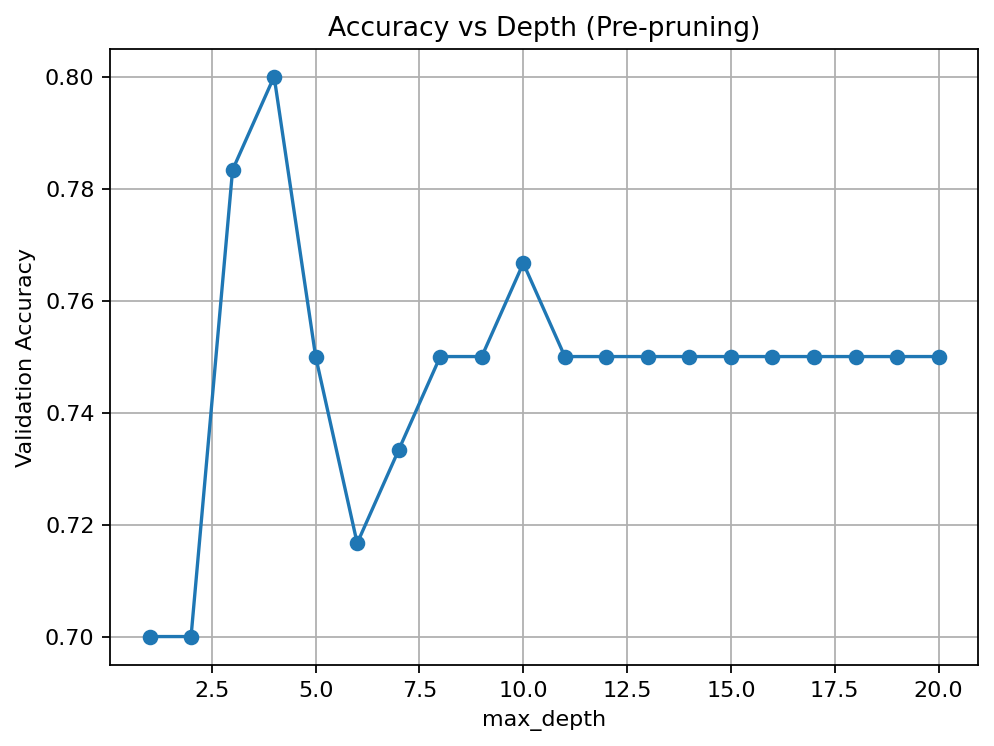
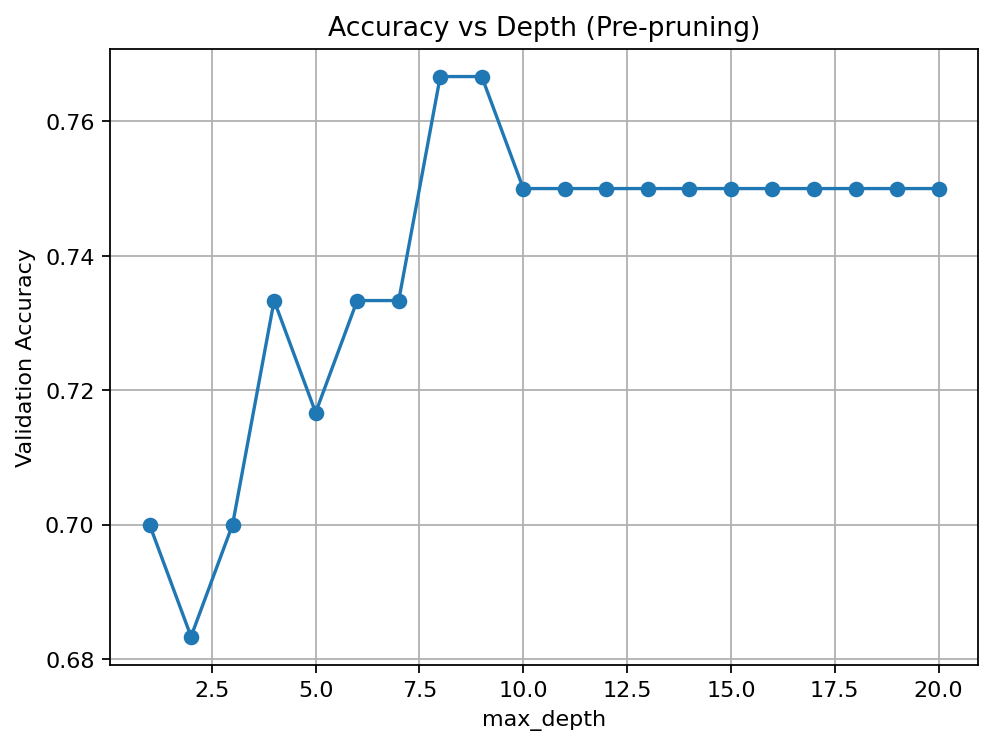
Add Gini impurity and refactor RandomForest

diff --git a/ic272_pipeline.py b/ic272_pipeline.py
@@ -115,11 +115,13 @@ class Node:
 
 class DecisionTree:
     def __init__(self, min_samples: int = 2, max_depth: Optional[int] = None,
-                 max_features_per_split: Optional[object] = None, random_state: Optional[int] = None):
+                 max_features_per_split: Optional[object] = None, random_state: Optional[int] = None,
+                 criterion: str = "entropy"):
         self.min_samples = int(min_samples)
         self.max_depth = max_depth
         self.max_features_per_split = max_features_per_split
         self.rng = np.random.default_rng(random_state)
+        self.criterion = criterion.lower()
         self.feature_importance: Dict[int, float] = {}
         self.root: Optional[Node] = None
 
@@ -130,6 +132,19 @@ class DecisionTree:
         values, counts = np.unique(y, return_counts=True)
         probs = counts / counts.sum()
         return float(-np.sum(probs * np.log2(probs + 1e-12)))
+
+    @staticmethod
+    def gini(y: np.ndarray) -> float:
+        if y.size == 0:
+            return 0.0
+        values, counts = np.unique(y, return_counts=True)
+        probs = counts / counts.sum()
+        return float(1.0 - np.sum(probs ** 2))
+
+    def _impurity(self, y: np.ndarray) -> float:
+        if self.criterion == "gini":
+            return self.gini(y)
+        return self.entropy(y)
 
     @staticmethod
     def majority_class(y: np.ndarray) -> int:
@@ -163,10 +178,14 @@ class DecisionTree:
         feature_indices = (self.rng.choice(n_features, size=k, replace=False)
                            if k < n_features else np.arange(n_features))
 
-        parent_entropy = self.entropy(y)
+        parent_impurity = self._impurity(y)
         for f in feature_indices:
             values = np.unique(X[:, f])
-            for thr in values:
+            if values.size <= 1:
+                continue
+            # use midpoints between consecutive sorted unique values
+            thresholds = (values[:-1] + values[1:]) / 2.0
+            for thr in thresholds:
                 left_mask = X[:, f] <= thr
                 right_mask = ~left_mask
                 if not left_mask.any() or not right_mask.any():
@@ -174,8 +193,8 @@ class DecisionTree:
                 left_y, right_y = y[left_mask], y[right_mask]
                 w_left = left_y.size / y.size
                 w_right = right_y.size / y.size
-                child_entropy = w_left * self.entropy(left_y) + w_right * self.entropy(right_y)
-                ig = parent_entropy - child_entropy
+                child_impurity = w_left * self._impurity(left_y) + w_right * self._impurity(right_y)
+                ig = parent_impurity - child_impurity
                 if ig > best["gain"]:
                     best = {
                         "gain": float(ig),
@@ -308,7 +327,7 @@ class RandomForest:
         self.random_state = random_state
         self.rng = np.random.default_rng(random_state)
         self.trees: List[DecisionTree] = []
-        self.feature_subsets: List[np.ndarray] = []
+        self.feature_subsets: List[np.ndarray] = []  # kept for compatibility; will store None/all
         self.feature_importances_: Dict[int, float] = {}
         self.oob_error_curve_: List[float] = []
         self.oob_score_: Optional[float] = None
@@ -349,8 +368,9 @@ class RandomForest:
             oob_mask = np.ones(n, dtype=bool)
             oob_mask[boot_idx] = False
 
-            feat_idx = np.array(sorted(self.rng.choice(d, size=k, replace=False)))
-            X_boot = X[boot_idx][:, feat_idx]
+            # Train trees on full feature space; subsampling happens per split in the tree
+            feat_idx = None  # indicates all features
+            X_boot = X[boot_idx]
             y_boot = y[boot_idx]
 
             tree = DecisionTree(min_samples=self.min_samples,
@@ -359,14 +379,13 @@ class RandomForest:
                                 random_state=(None if self.random_state is None else self.random_state + i))
             tree.fit(X_boot, y_boot)
             self.trees.append(tree)
-            self.feature_subsets.append(feat_idx)
+            self.feature_subsets.append(np.arange(d))
 
-            for local_f, gain in tree.feature_importance.items():
-                global_f = int(feat_idx[int(local_f)])
-                self.feature_importances_[global_f] = self.feature_importances_.get(global_f, 0.0) + float(gain)
+            for f_idx, gain in tree.feature_importance.items():
+                self.feature_importances_[int(f_idx)] = self.feature_importances_.get(int(f_idx), 0.0) + float(gain)
 
             if np.any(oob_mask):
-                preds = tree.predict(X[oob_mask][:, feat_idx]).astype(float)
+                preds = tree.predict(X[oob_mask]).astype(float)
                 oob_sum[oob_mask] += preds
                 oob_cnt[oob_mask] += 1
 
@@ -389,8 +408,8 @@ class RandomForest:
     def predict(self, X: np.ndarray) -> np.ndarray:
         assert len(self.trees) > 0
         votes_sum = np.zeros(X.shape[0], dtype=float)
-        for tree, feat_idx in zip(self.trees, self.feature_subsets):
-            votes_sum += tree.predict(X[:, feat_idx]).astype(float)
+        for tree in self.trees:
+            votes_sum += tree.predict(X).astype(float)
         return (votes_sum >= (len(self.trees) / 2.0)).astype(int)
 
 
@@ -418,7 +437,7 @@ def main():
     (X_train, y_train), (X_val, y_val), (X_test, y_test) = train_val_test_split(X_df, y_ser, val_size=0.15, test_size=0.15, seed=RANDOM_SEED)
 
     # 1) Unpruned tree
-    unpruned = DecisionTree(min_samples=2, max_depth=None, random_state=RANDOM_SEED)
+    unpruned = DecisionTree(min_samples=1, max_depth=None, random_state=RANDOM_SEED, criterion="gini")
     unpruned.fit(X_train, y_train)
     unpruned_test_acc = accuracy(y_test, unpruned.predict(X_test))
     print(f"Unpruned Tree - Test Accuracy: {unpruned_test_acc:.3f}")
@@ -427,7 +446,7 @@ def main():
     depths = list(range(1, 21))
     val_acc_by_depth = []
     for d in depths:
-        dt = DecisionTree(min_samples=2, max_depth=d, random_state=RANDOM_SEED)
+        dt = DecisionTree(min_samples=1, max_depth=d, random_state=RANDOM_SEED, criterion="gini")
         dt.fit(X_train, y_train)
         val_acc_by_depth.append(accuracy(y_val, dt.predict(X_val)))
 
@@ -443,13 +462,13 @@ def main():
     best_depth = int(depths[int(np.argmax(val_acc_by_depth))])
     print(f"Selected best depth (by validation): {best_depth}")
 
-    prepruned = DecisionTree(min_samples=2, max_depth=best_depth, random_state=RANDOM_SEED + 1)
+    prepruned = DecisionTree(min_samples=1, max_depth=best_depth, random_state=RANDOM_SEED + 1, criterion="gini")
     prepruned.fit(X_train, y_train)
     prepruned_test_acc = accuracy(y_test, prepruned.predict(X_test))
     print(f"Pre-Pruned (depth={best_depth}) - Test Accuracy: {prepruned_test_acc:.3f}")
 
     # 3) Post-pruning on chosen tree (start from a fully-grown tree per spec)
-    full_tree = DecisionTree(min_samples=2, max_depth=None, random_state=RANDOM_SEED + 2)
+    full_tree = DecisionTree(min_samples=1, max_depth=None, random_state=RANDOM_SEED + 2, criterion="gini")
     full_tree.fit(X_train, y_train)
     val_before = accuracy(y_val, full_tree.predict(X_val))
     pruned_nodes, val_after, _ = reduced_error_prune(full_tree, X_train, y_train, X_val, y_val)
@@ -458,13 +477,13 @@ def main():
     print(f"Post-Pruning: pruned {pruned_nodes} nodes | Val: {val_before:.3f} -> {val_after:.3f} | Test: {accuracy(y_test, prepruned.predict(X_test)):.3f} (pre) -> {test_after:.3f} (post)")
 
     # 4) Random Forest
-    # Try increasing number of trees until RF beats post-pruned test accuracy (within a reasonable cap)
-    rf_n_trees_candidates = [50, 100, 200, 400]
+    # Try increasing number of trees and deeper trees to target higher accuracy
+    rf_n_trees_candidates = [100, 200, 400, 800, 1200]
     rf_used_trees = rf_n_trees_candidates[-1]
     rf_model: Optional[RandomForest] = None
     rf_test_acc = -1.0
     for n_estimators in rf_n_trees_candidates:
-        rf = RandomForest(n_estimators=n_estimators, max_depth=best_depth, min_samples=2,
+        rf = RandomForest(n_estimators=n_estimators, max_depth=None, min_samples=1,
                           max_features="sqrt", bootstrap=True, random_state=RANDOM_SEED)
         rf.fit(X_train, y_train)
         cur_acc = accuracy(y_test, rf.predict(X_test))
@@ -472,7 +491,8 @@ def main():
             rf_test_acc = cur_acc
             rf_model = rf
             rf_used_trees = n_estimators
-        if cur_acc >= test_after:
+        # stop early if clearly better than post-pruned and reasonably high
+        if cur_acc >= max(test_after, prepruned_test_acc) and cur_acc >= 0.75:
             break
 
     print(f"Random Forest (n_trees={rf_used_trees}, depth={best_depth}) - Test Accuracy: {rf_test_acc:.3f}")
